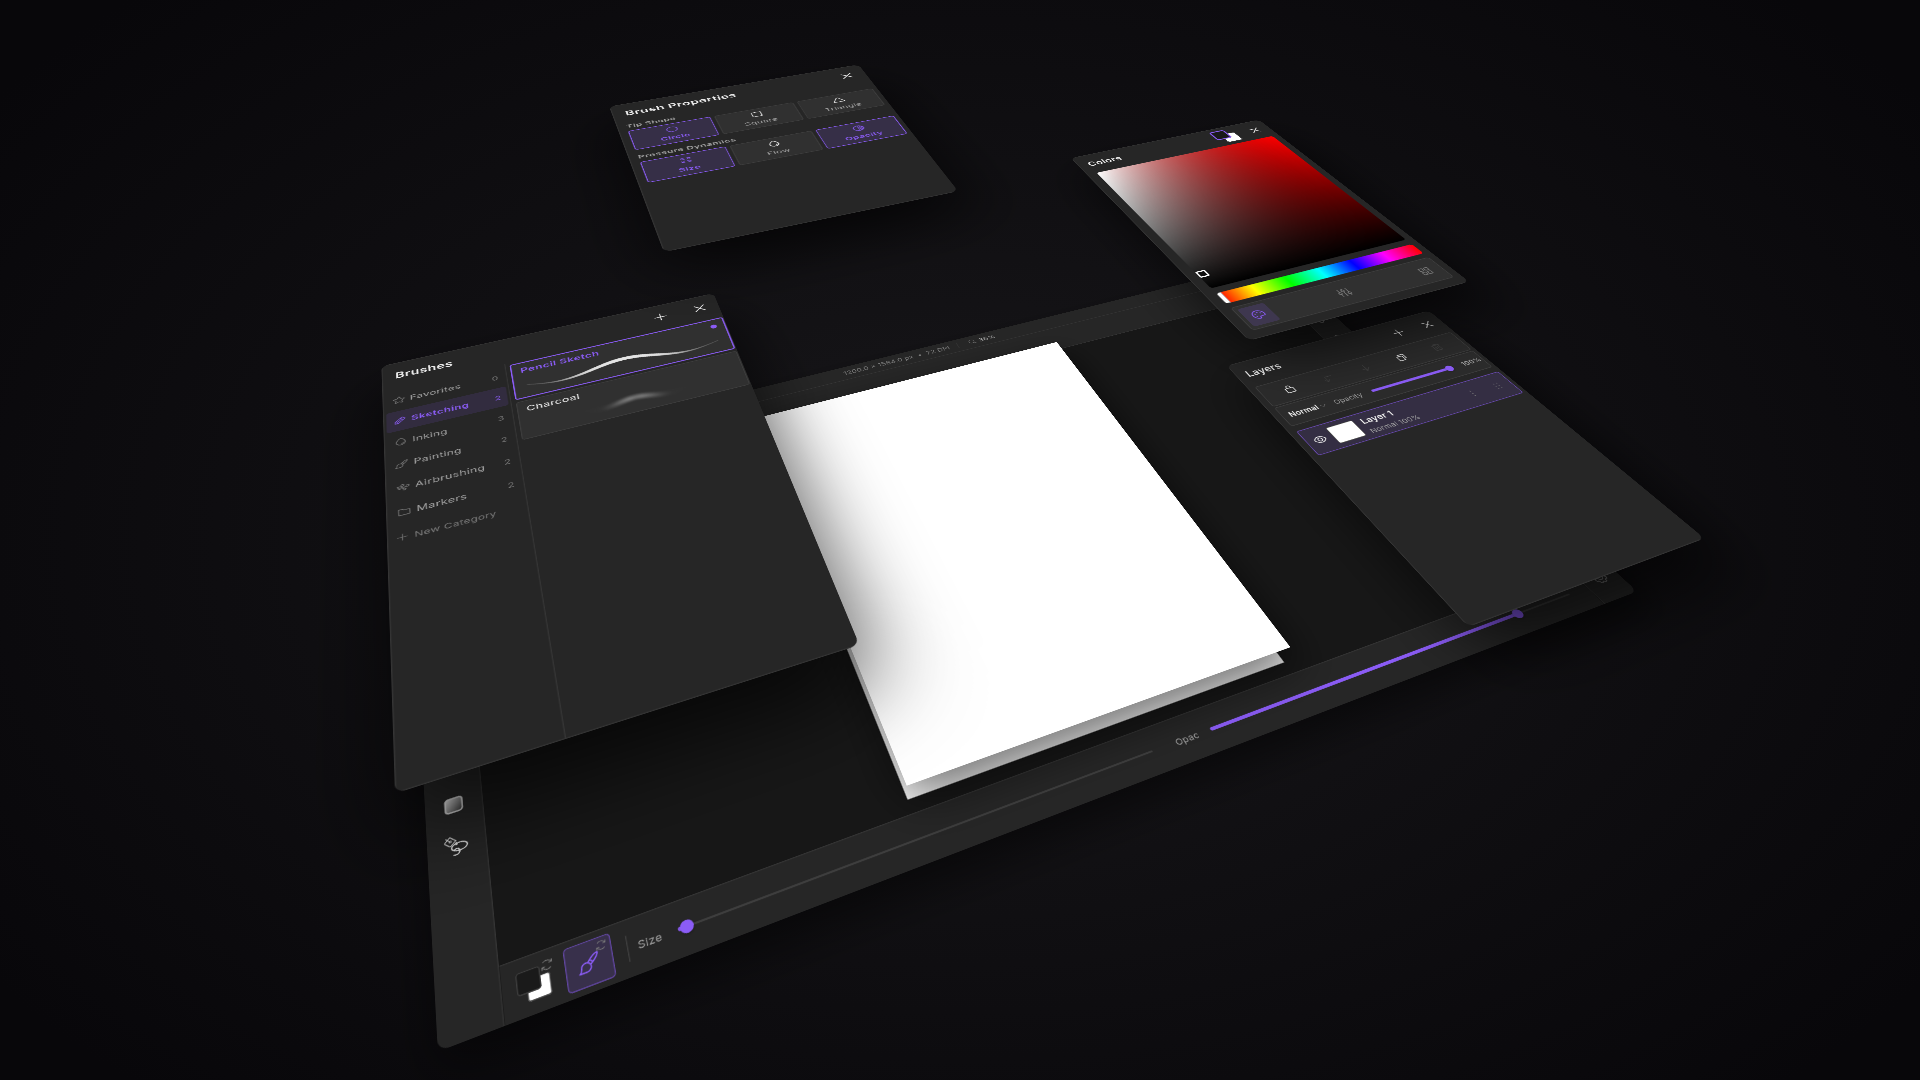
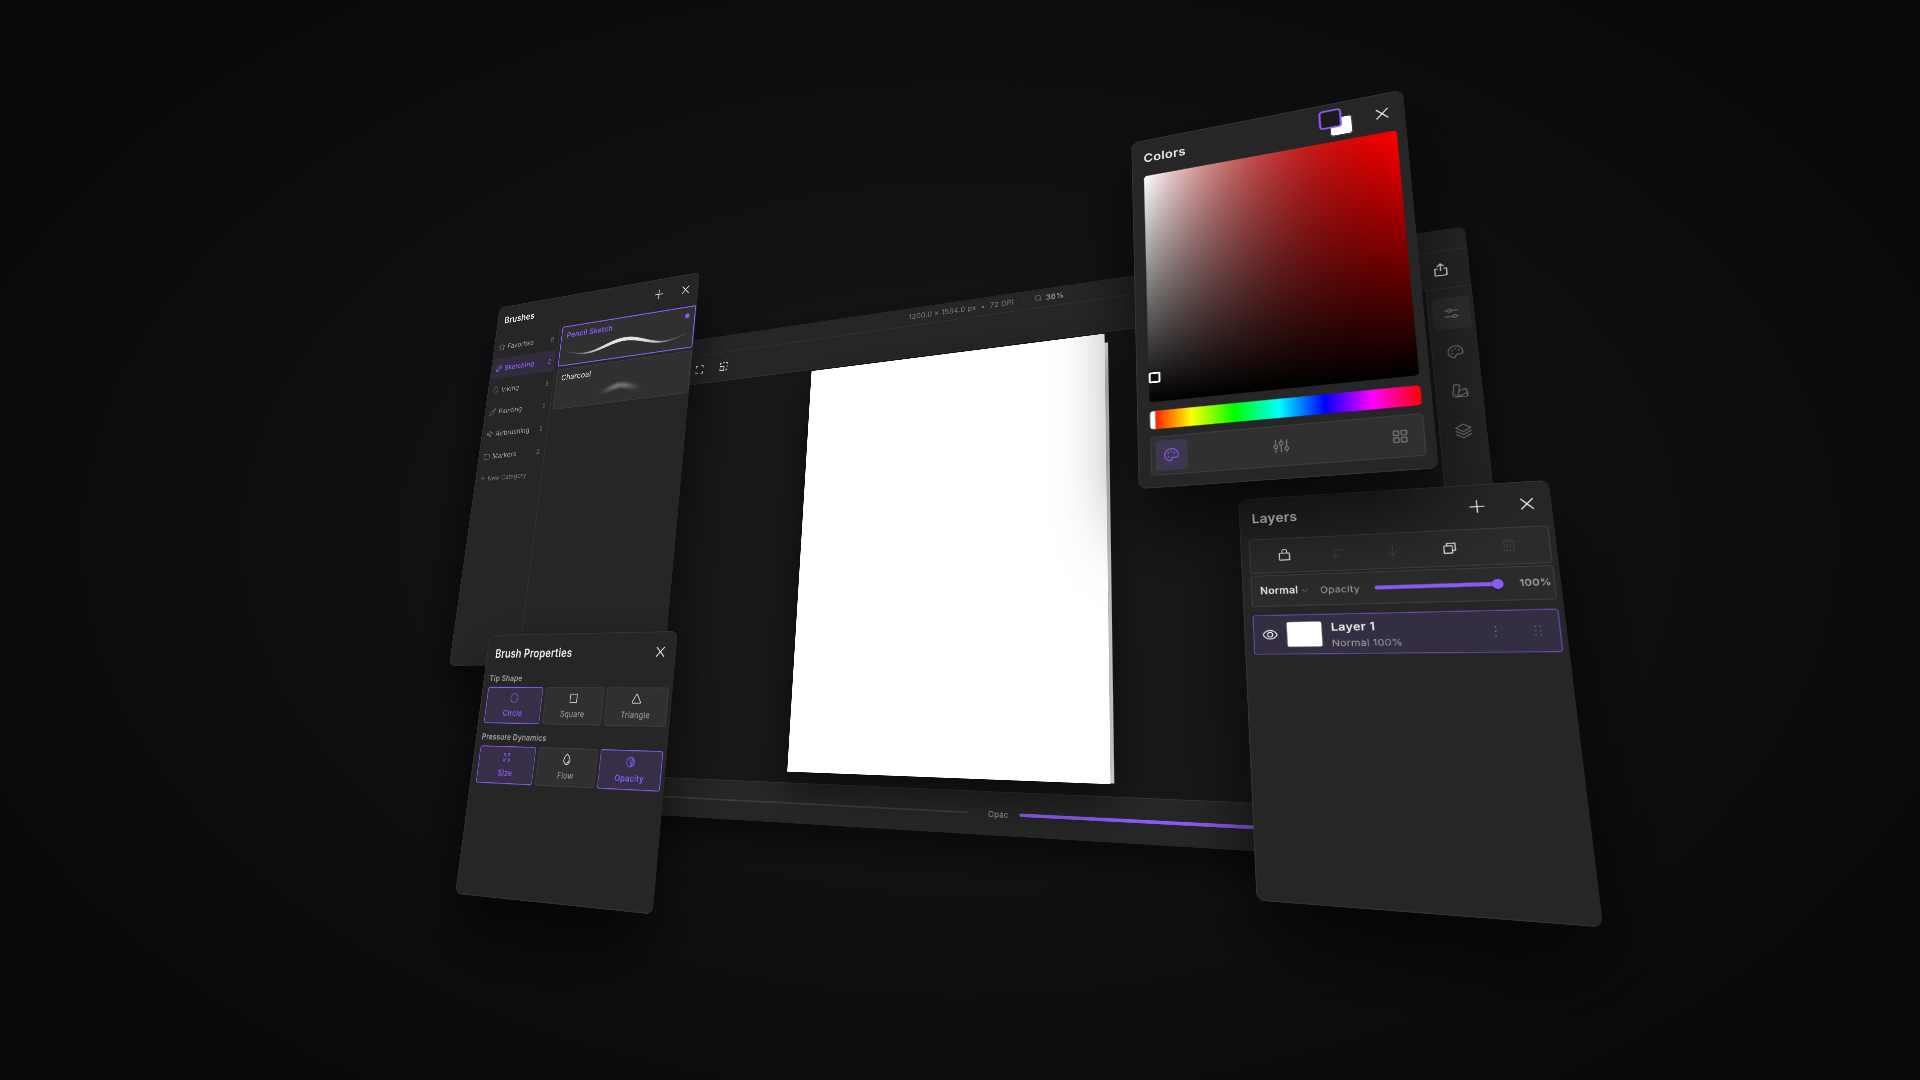
Storyboard: upright exploded open, strokes-saved wording instead of recording
Claude-Session: https://claude.ai/code/session_01N6SAp883XGMwBKYGBCyKw5

diff --git a/docs/storyboard/storyboard.html b/docs/storyboard/storyboard.html
@@ -35,13 +35,13 @@ html,body { margin:0; background:var(--bg); }
 </style></head><body>
 
 <!-- 1 · Exploded studio: the real Brushes, Brush Properties, Colors and Layers panels float at their own heights -->
-<div class="frame" id="f1"><div class="cam"><div class="rig" style="transform:translate(30px,-10px) scale(.56) rotateX(42deg) rotateZ(-22deg)">
+<div class="frame" id="f1"><div class="cam"><div class="rig" style="transform:translate(-10px,10px) scale(.5) rotateY(-20deg) rotateX(12deg) rotateZ(-3deg)">
   <img class="L" src="../../ui/studio/clean.png" style="width:1920px;height:1080px;left:-960px;top:-540px;border-radius:14px">
   <div class="L" style="background:#fff;left:-316px;top:-404px;width:639px;height:843px;transform:translateZ(40px)"></div>
-  <img class="L P" src="../../ui/studio/p_layers.png" style="left:470px;top:-40px;width:444px;height:626px;transform:translateZ(200px)">
-  <img class="L P" src="../../ui/studio/p_brush.png" style="left:-880px;top:-420px;width:534px;height:804px;transform:translateZ(320px)">
-  <img class="L P" src="../../ui/studio/p_colour.png" style="left:360px;top:-480px;width:414px;height:605px;transform:translateZ(400px)">
-  <img class="L P" src="../../ui/studio/p_adjust.png" style="left:-430px;top:-560px;width:414px;height:450px;transform:translateZ(600px)">
+  <img class="L P" src="../../ui/studio/p_layers.png" style="left:560px;top:-30px;width:444px;height:626px;transform:translateZ(140px)">
+  <img class="L P" src="../../ui/studio/p_brush.png" style="left:-1010px;top:-560px;width:534px;height:804px;transform:translateZ(240px)">
+  <img class="L P" src="../../ui/studio/p_colour.png" style="left:420px;top:-620px;width:414px;height:605px;transform:translateZ(300px)">
+  <img class="L P" src="../../ui/studio/p_adjust.png" style="left:-760px;top:200px;width:414px;height:450px;transform:translateZ(380px)">
 </div></div></div>
 
 <!-- 2 · Focus on the canvas: same frame language as the skin showcase (eyebrow → statement → script → tokens) -->
@@ -51,16 +51,16 @@ html,body { margin:0; background:var(--bg); }
     <div class="L" style="background:rgba(8,7,10,.95);left:-1400px;top:-900px;width:2800px;height:1800px;box-shadow:none"></div>
   </div></div>
   <div class="abs" style="left:762px;top:110px;width:652px;height:860px;border-radius:14px;overflow:hidden;box-shadow:0 40px 90px rgba(0,0,0,.6)"><img src="../../build/frames/canvas/70.jpg" style="width:100%;height:100%"></div>
-  <div class="abs" style="left:784px;top:132px;height:34px;padding:0 14px;border-radius:17px;background:rgba(20,19,22,.86);box-shadow:inset 0 0 0 1px var(--hair);font:600 15px/34px Inter;letter-spacing:.08em;color:#fff;font-feature-settings:'tnum'"><span style="display:inline-block;width:9px;height:9px;border-radius:5px;background:var(--accent);margin-right:9px;vertical-align:0"></span>REC&nbsp;&nbsp;<span style="color:var(--muted)">00:02.4</span></div>
-  <div class="abs eyebrow" style="left:98px;top:330px">Recorder&nbsp;&nbsp;·&nbsp;&nbsp;<b>always on</b></div>
+  <div class="abs" style="left:784px;top:132px;height:34px;padding:0 14px;border-radius:17px;background:rgba(20,19,22,.86);box-shadow:inset 0 0 0 1px var(--hair);font:600 15px/34px Inter;color:#fff;font-feature-settings:'tnum'"><svg width="15" height="15" viewBox="0 0 24 24" fill="none" stroke="#8B5CF6" stroke-width="2.6" stroke-linecap="round" style="vertical-align:-2px;margin-right:9px"><path d="M3 12a9 9 0 1 0 3-6.7L3 8"/><path d="M3 3v5h5"/></svg>1,284&nbsp;<span style="color:var(--muted);font-weight:500">strokes saved</span></div>
+  <div class="abs eyebrow" style="left:98px;top:330px">Every stroke&nbsp;&nbsp;·&nbsp;&nbsp;<b>saved</b></div>
   <div class="abs" style="left:96px;top:374px;font:600 40px/56px Inter;letter-spacing:-.01em;color:#fff">No complicated setup.</div>
   <div class="abs" style="left:96px;top:430px;font:600 40px/56px Inter;letter-spacing:-.01em;color:var(--muted)">No camera pressure.</div>
   <div class="abs" style="left:90px;top:500px;font:112px/130px 'Southern Beach'">You just draw.</div>
   <div class="abs" style="left:98px;top:648px;width:520px;height:3px;border-radius:2px;background:var(--accent)"></div>
-  <div class="abs eyebrow" style="left:1496px;top:430px">Session</div>
-  <div class="abs row" style="left:1496px;top:468px;line-height:38px">strokes&nbsp;&nbsp;<span class="v">1,284</span></div>
-  <div class="abs row" style="left:1496px;top:506px;line-height:38px">recorded&nbsp;&nbsp;<span class="v">00:44.6</span></div>
-  <div class="abs row" style="left:1496px;top:544px;line-height:38px">camera&nbsp;&nbsp;<span class="v">none</span></div>
+  <div class="abs eyebrow" style="left:1496px;top:430px">Canvas</div>
+  <div class="abs row" style="left:1496px;top:468px;line-height:38px">strokes&nbsp;&nbsp;<span class="v">1,284 saved</span></div>
+  <div class="abs row" style="left:1496px;top:506px;line-height:38px">replay&nbsp;&nbsp;<span class="v">ready</span></div>
+  <div class="abs row" style="left:1496px;top:544px;line-height:38px">setup&nbsp;&nbsp;<span class="v">none</span></div>
 </div>
 
 <!-- 3 · Focus on Replay: camera pans to the toolbar, cursor clicks the clapper -->

diff --git a/docs/shotlist-studio.md b/docs/shotlist-studio.md
@@ -7,8 +7,8 @@ Ends on the lockup (no loop back, no infinite card floor).
 
 | # | Beats | Time | Shot | Motion | Sound |
 |---|---|---|---|---|---|
-| 1 | 0–6 | 0.0–2.8 | **Exploded studio.** The real studio is the flat base with a blank white page. Above it float the real **Brushes, Brush Properties, Colors and Layers** panels (captured from the app), each at its own height and spread over the workspace. | Opens already exploded. On beats 1–4 each panel drops and folds into its button on the right rail, one per beat. The camera levels out on beat 5. | Low hit at 0, a click per panel, swish on the untilt |
-| 2 | 6–12 | 2.8–5.6 | **Focus on the canvas**, laid out like the skin showcase. The page is a framed card with a REC chip and a running timecode, playing the Canvas_drawing video. Left block: eyebrow "Recorder · always on" → "No complicated setup." (white) → "No camera pressure." (grey) → *You just draw.* (script) → accent underline. Right block: Session tokens (strokes, recorded, camera: none). The studio behind is darkened and blurred. | Push-in. Each line rolls up from a mask on 6.5, 8 and 9.5. The token digits count up. | Whoosh in, tick per line, groove starts |
+| 1 | 0–6 | 0.0–2.8 | **Exploded studio.** The real studio stands near-upright, angled about 20° to the side (not lying flat), with a blank white page. In front of it float the real **Brushes, Brush Properties, Colors and Layers** panels (captured from the app), each at its own height and spread over the workspace. | Opens already exploded. On beats 1–4 each panel drops and folds into its button on the right rail, one per beat. The camera levels out on beat 5. | Low hit at 0, a click per panel, swish on the untilt |
+| 2 | 6–12 | 2.8–5.6 | **Focus on the canvas**, laid out like the skin showcase. The page is a framed card with a "↺ 1,284 strokes saved" chip (the count ticks up), playing the Canvas_drawing video. No recording language. Left block: eyebrow "Every stroke · saved" → "No complicated setup." (white) → "No camera pressure." (grey) → *You just draw.* (script) → accent underline. Right block: Canvas tokens (strokes 1,284 saved / replay ready / setup none). The studio behind is darkened and blurred. | Push-in. Each line rolls up from a mask on 6.5, 8 and 9.5. The token digits count up. | Whoosh in, tick per line, groove starts |
 | 3 | 12–14 | 5.6–6.6 | **Replay.** Copy lifts out. Camera pans to the top-right toolbar. Cursor glides to the clapper (Replay) button and clicks: purple pressed state. | Camera pan, cursor travel, button press dip | Swish, click on 13, drums drop for that beat |
 | 4 | 14–21.5 | 6.6–10.1 | **Skin showcase** (the switcher you liked). The page lifts off the studio and morphs into the replay box while the studio falls away. Left: Look 01/05, frame name, colour dots and ring. Right: skin and colour tokens. | Same as the previous film: Pink, Yellow, Orange, Manga, Fantasy, switching every 1.5 beats | Boom on 14, click per switch |
 | 5 | 21.5–23 | 10.1–10.8 | **Export.** HUD exits. The real "Export video" button (cropped from the app) pops in under the box. Cursor clicks it. | Button scales in with a tiny overshoot, then a press dip | Tick, click on 22.5 |
